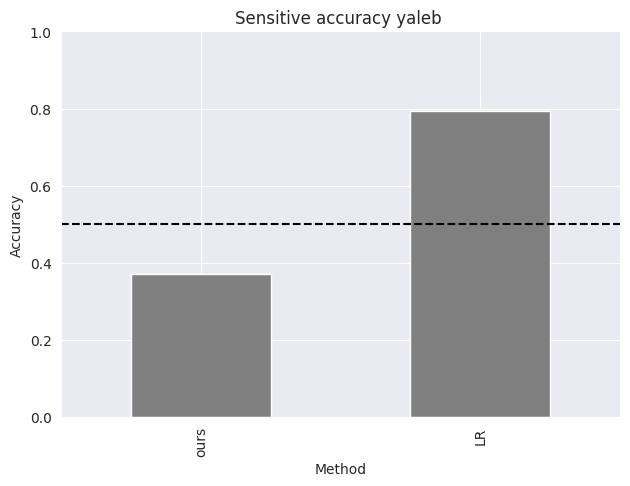
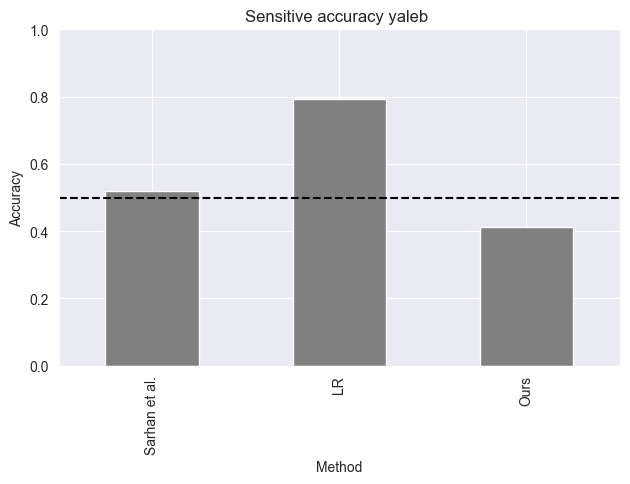
update result figures

diff --git a/scripts/make_fig2.py b/scripts/make_fig2.py
@@ -57,6 +57,8 @@ def make_figure(df, dataset):
     experiment2metrics = dataset2experiment2metrics[dataset]
 
     for experiment, metrics in experiment2metrics.items():
+        if experiment == "majority":
+            continue
         if not experiment in df.index:
             df.loc[experiment] = {
                 "target_acc": metrics[0],
@@ -67,6 +69,7 @@ def make_figure(df, dataset):
 
     sns.set_style("darkgrid")
 
+    plt.figure()
     df["sens_acc"].plot.bar(color="gray")
     plt.axhline(
         y=experiment2metrics["majority"][1],
